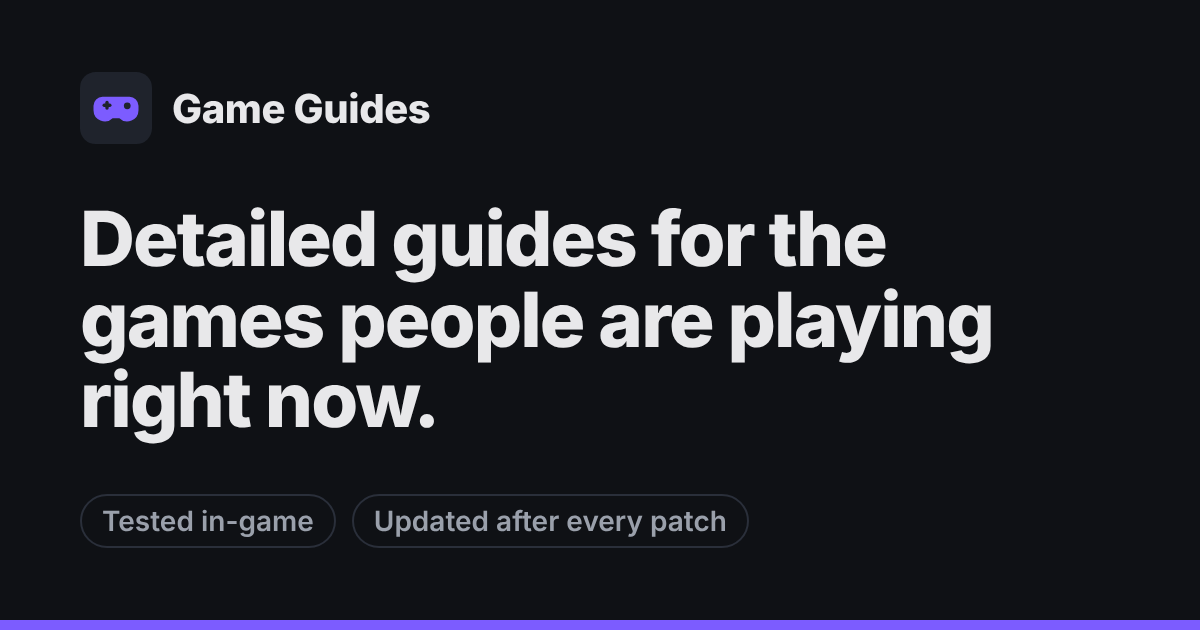
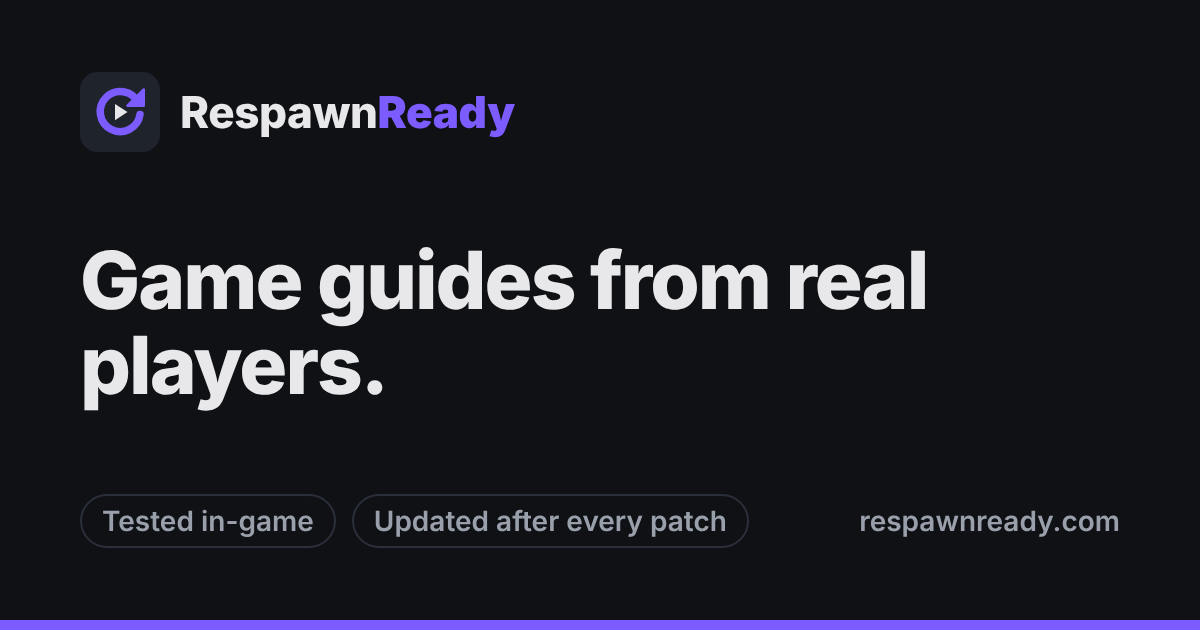
chore: set up RespawnReady branding and launch config
- Rename site to RespawnReady with tagline "Game guides from real players."
- Set site URL to https://respawnready.com (canonical, sitemap, robots, OG)
- Add new respawn-arrow favicon/logo
- Regenerate default link-preview image with the new brand
- Set contact email to contact@respawnready.com
- Name Cloudflare Web Analytics (cookieless) in the Privacy Policy
- README: email routing, analytics, Search Console steps and launch checklist

Changed region(s): [[0.0617, 0.3317, 0.8325, 0.7238], [0.0617, 0.1206, 0.4317, 0.2111], [0.7092, 0.8143, 0.9558, 0.8444]]

diff --git a/src/site.config.ts b/src/site.config.ts
@@ -1,7 +1,7 @@
-// Site-wide settings. Change these in one place once the site has a real name.
+// Site-wide settings. Change the name, email or tagline here and it updates everywhere.
 export const SITE = {
-  name: 'Game Guides', // placeholder until the brand name is chosen
-  tagline: 'Detailed guides for the games people are playing right now.',
+  name: 'RespawnReady',
+  tagline: 'Game guides from real players.',
   description:
     'In-depth game guides, tips and walkthroughs for ROB RUN, GTA and more — written by players with hundreds of hours in each game.',
   locale: 'en',
@@ -13,10 +13,10 @@ export const SITE = {
   // Leave as null until you set up Search Console for the real domain.
   googleSiteVerification: null as string | null,
   // Public contact email shown on the Contact and Privacy pages.
-  // Leave as null until you have one; the pages then say it's coming soon.
-  contactEmail: null as string | null,
+  // Forwarded to a private inbox with Cloudflare Email Routing. Set to null to hide it.
+  contactEmail: 'contact@respawnready.com' as string | null,
   // Shown on the Privacy Policy. Update it whenever you change that page.
-  privacyUpdated: '2026-11-21',
+  privacyUpdated: '2026-11-22',
 } as const;
 
 // Links shown in the header and footer navigation.

diff --git a/README.md b/README.md
@@ -1,10 +1,10 @@
-# Game Guides
+# RespawnReady
 
-A gaming guide website with detailed, first-hand guides for ROB RUN, GTA and more — written by players with hundreds of hours in each game.
+**[respawnready.com](https://respawnready.com)** — a gaming guide website with detailed, first-hand guides for ROB RUN, GTA and more — written by players with hundreds of hours in each game.
 
 Built with [Astro](https://astro.build) as a fast static site: every page is plain HTML, which keeps it quick to load and easy for Google to read.
 
-> **The site name is a placeholder.** Change it in `src/site.config.ts` once the brand is chosen.
+> The site name, tagline and contact email live in `src/site.config.ts`. The domain lives in `astro.config.mjs`.
 
 ---
 
@@ -19,7 +19,8 @@ Built with [Astro](https://astro.build) as a fast static site: every page is pla
 - [Writing guides that rank](#writing-guides-that-rank)
 - [SEO features](#seo-features)
 - [Deploying to Cloudflare Pages](#deploying-to-cloudflare-pages)
-- [Before launch checklist](#before-launch-checklist)
+- [Email, analytics and Search Console](#email-analytics-and-search-console)
+- [Launch checklist](#launch-checklist)
 - [Git workflow](#git-workflow)
 
 ---
@@ -228,19 +229,57 @@ Built in, no setup needed:
 
 4. If the build uses an old Node version, add an environment variable `NODE_VERSION` = `24`.
 5. Deploy. Every merge into `main` redeploys the site automatically, and every PR gets its own preview link.
-6. Add your custom domain under the project's **Custom domains** tab.
+6. Under the project's **Custom domains** tab, add `respawnready.com`, then add `www.respawnready.com` too.
+   Because the domain is on Cloudflare, the DNS records are created for you and HTTPS works within a few minutes.
+7. To send `www` visitors to the main domain, go to **respawnready.com → Rules → Redirect Rules** and use the
+   **Redirect from WWW to root** template.
 
-## Before launch checklist
+## Email, analytics and Search Console
 
-- [ ] Choose the brand name and update `src/site.config.ts`
-- [ ] Set the real domain in `astro.config.mjs` (`site: 'https://your-domain.com'`)
-- [ ] Rewrite the example ROB RUN guide with your own experience and set `draft: false`
-- [ ] Publish at least 5–10 guides for ROB RUN
-- [ ] Add cover images for each game in `public/images/games/` and set `cover`
-- [ ] Add a default link-preview image (1200×630) and set `defaultOgImage`
-- [ ] Deploy to Cloudflare Pages and connect the domain
-- [ ] Set up Google Search Console, paste the verification code into `googleSiteVerification`, redeploy
-- [ ] Submit `https://your-domain.com/sitemap.xml` in Search Console
+**Contact email.** The site shows `contact@respawnready.com`. It isn't a real inbox: Cloudflare forwards it to a private Gmail.
+
+1. Cloudflare dashboard → **respawnready.com → Email → Email Routing** → **Get started**.
+2. Add the destination address (your Gmail) and click the confirmation link Cloudflare emails you.
+3. Create a custom address `contact` → send to that Gmail. Cloudflare adds the needed DNS records for you.
+4. Test it by emailing `contact@respawnready.com` from another account.
+
+**Analytics.** Cloudflare Web Analytics is free and cookieless, so no cookie banner is needed for it.
+In the Pages project → **Metrics** → **Web Analytics** → **Enable**. Cloudflare adds the script automatically on the
+next deploy. The Privacy Policy already mentions it.
+
+**Google Search Console.**
+
+1. Go to [search.google.com/search-console](https://search.google.com/search-console) → **Add property** → **Domain** → `respawnready.com`.
+2. Google gives you a TXT record. Add it in Cloudflare → **DNS → Records**, then click **Verify**.
+3. Open **Sitemaps** and submit `https://respawnready.com/sitemap.xml`.
+4. (Optional) If you'd rather use the HTML-tag method, paste the code into `googleSiteVerification` in `src/site.config.ts` and redeploy.
+
+## Launch checklist
+
+**Done**
+
+- [x] Brand name (RespawnReady) and tagline in `src/site.config.ts`
+- [x] Domain `respawnready.com` bought on Cloudflare and set in `astro.config.mjs`
+- [x] Link-preview image (`public/og-default.png`) and favicon
+- [x] Contact email set (`contact@respawnready.com`)
+- [x] Privacy Policy covers hosting, analytics and ads
+
+**To do**
+
+- [ ] Set up Email Routing so `contact@respawnready.com` reaches your inbox
+- [ ] Review every ROB RUN guide, fix anything marked `CHECK` and set `draft: false`
+- [ ] Pick the 3 `featured` guides that show under "Start here"
+- [ ] Add in-game screenshots to the guides
+- [ ] Deploy to Cloudflare Pages and add `respawnready.com` (and `www.respawnready.com`) under **Custom domains**
+- [ ] Enable Web Analytics on the Pages project
+- [ ] Verify the domain in Google Search Console and submit the sitemap
+- [ ] Check a link preview by pasting a guide link into Discord or WhatsApp
+
+**After launch**
+
+- [ ] Publish new guides regularly — consistency matters more than volume
+- [ ] Watch Search Console for which searches bring visitors, and write more guides around them
+- [ ] Apply for Google AdSense once there's steady traffic and 20+ published guides
 
 ## Git workflow
 
